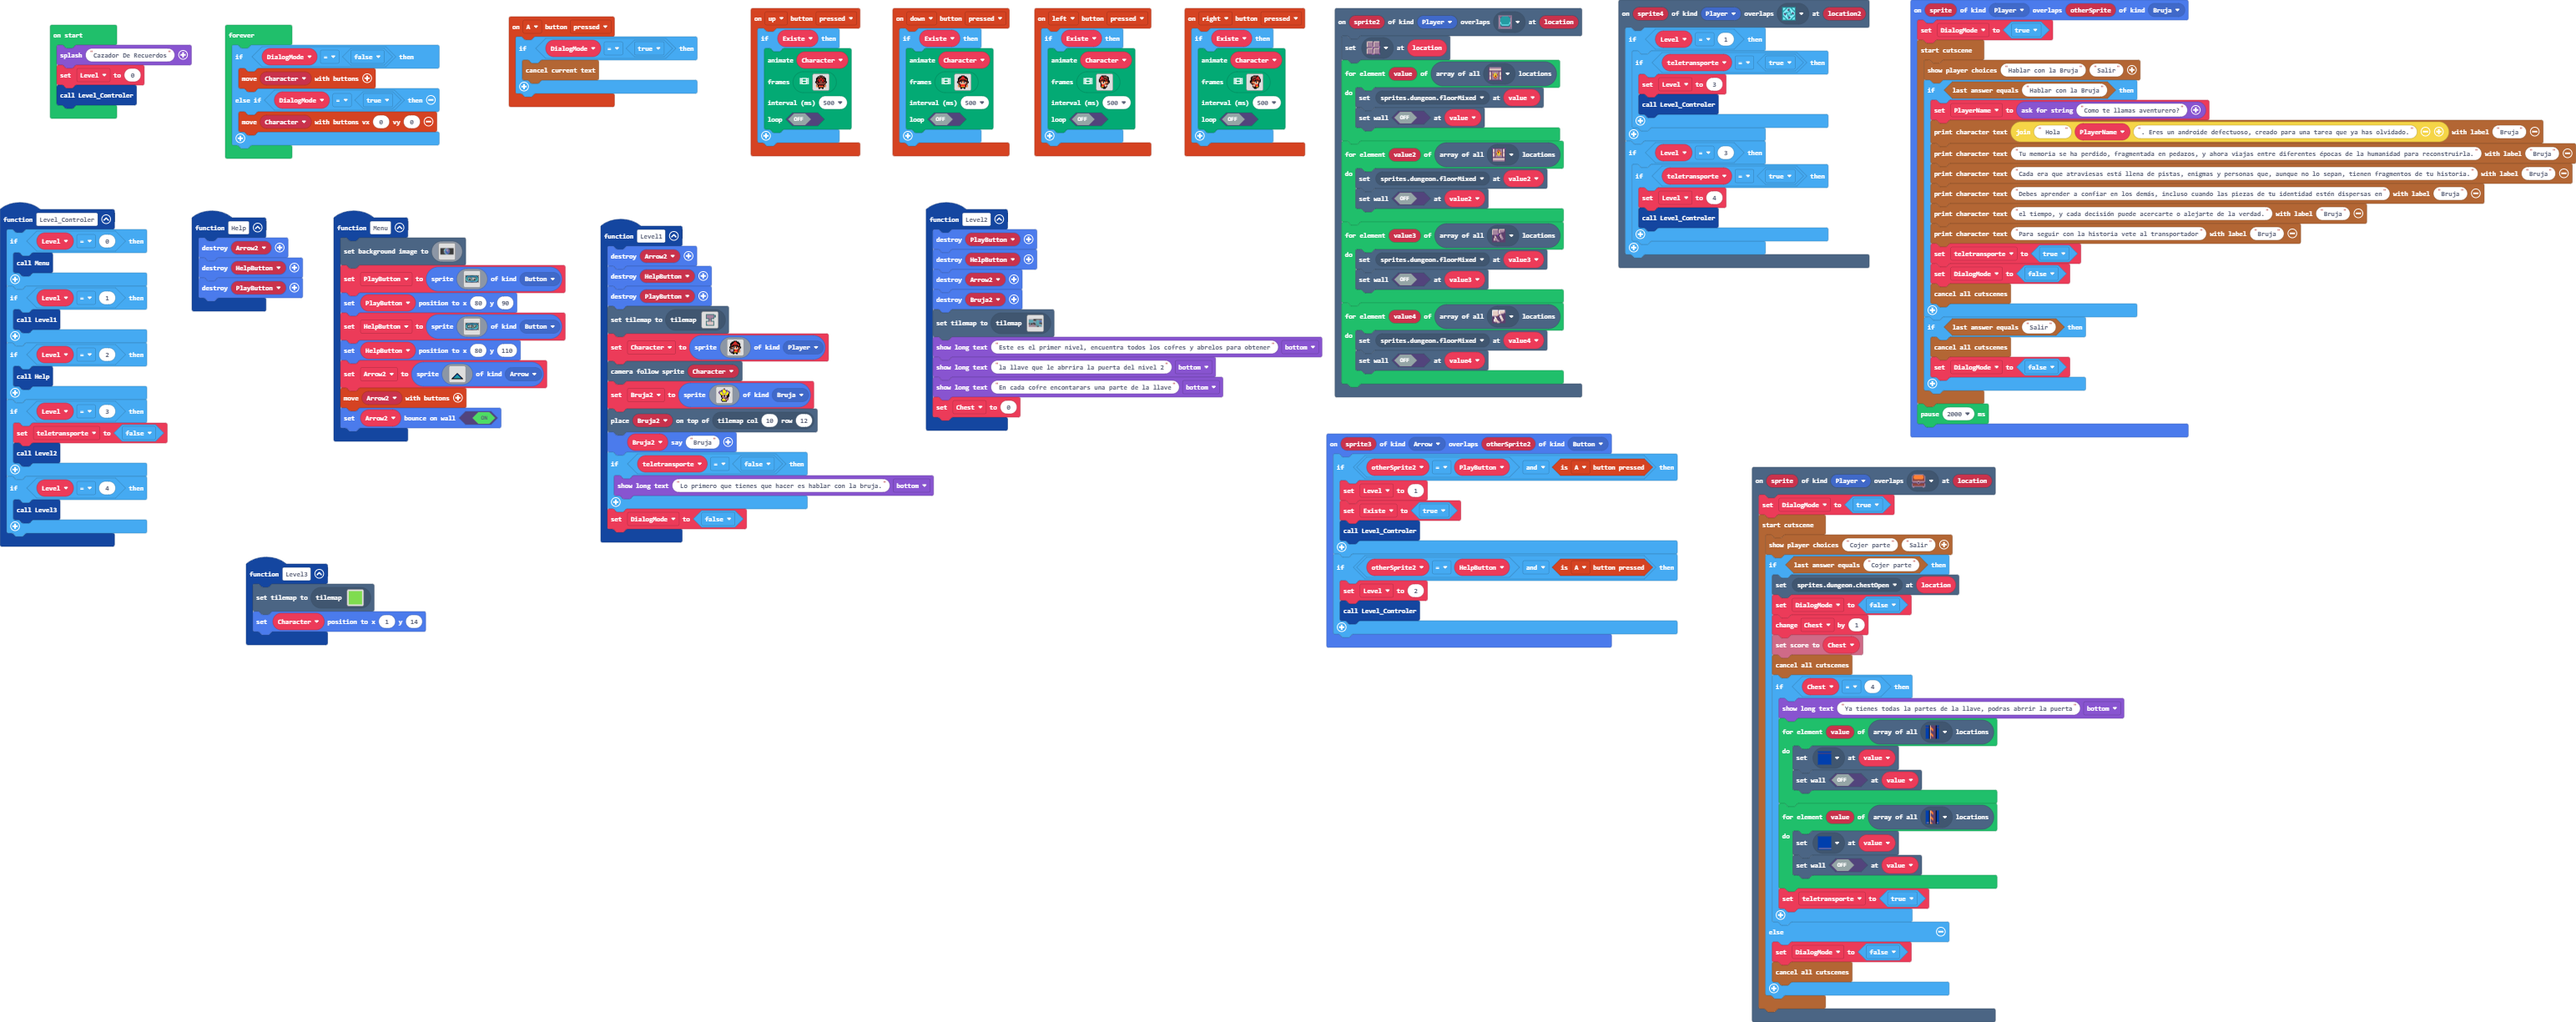
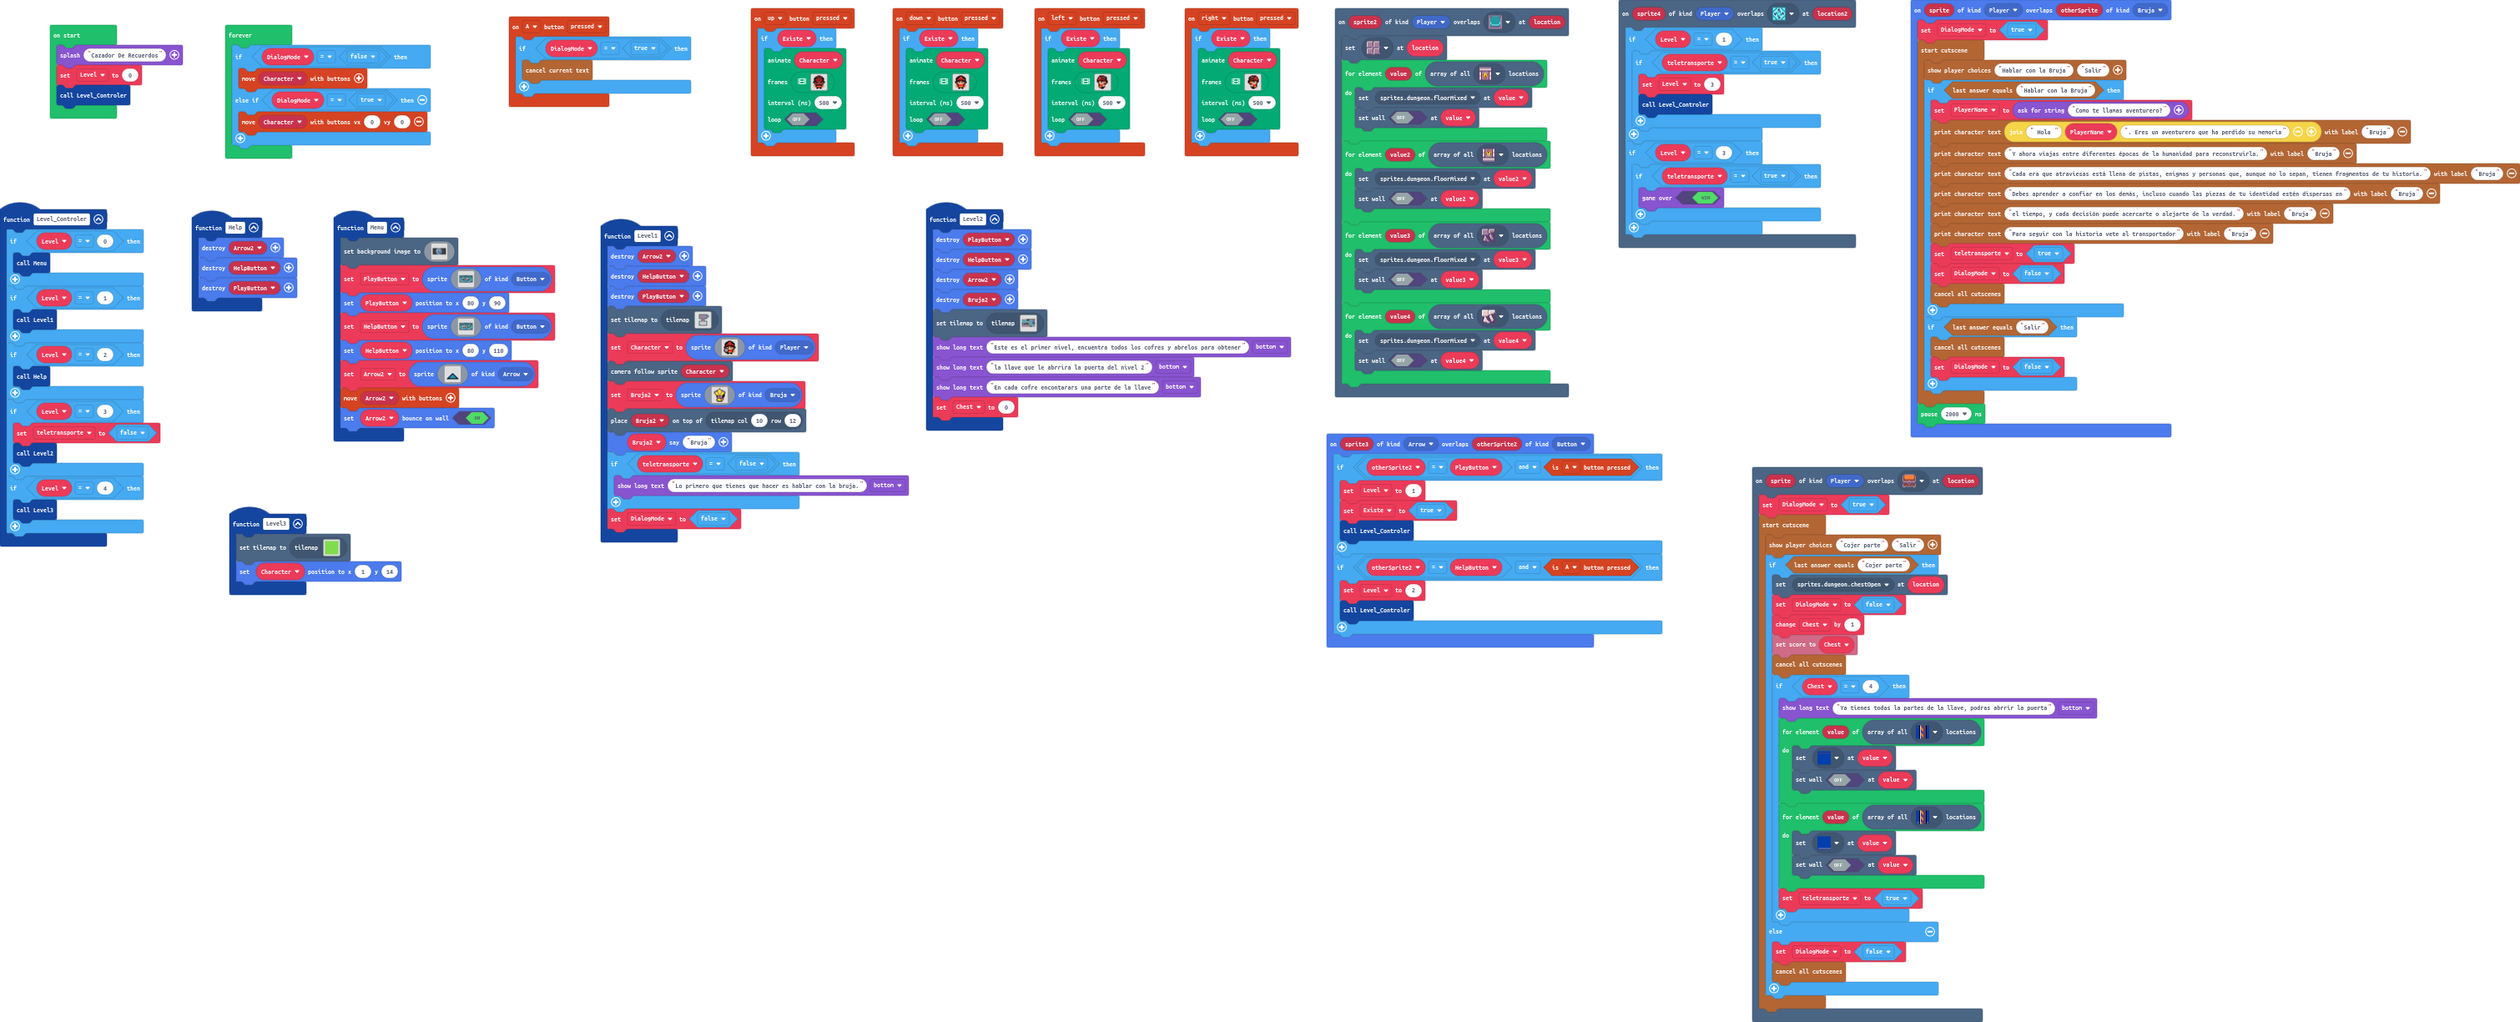
Commit

diff --git a/tilemap.g.ts b/tilemap.g.ts
@@ -331,25 +331,6 @@ namespace myTiles {
 
     helpers._registerFactory("tilemap", function(name: string) {
         switch(helpers.stringTrim(name)) {
-            case "level4":
[1 lines of base64/hex data omitted]
-2 2 2 2 2 2 2 2 2 2 2 2 2 2 2 2 
-2 2 2 2 2 2 2 2 2 2 2 2 2 2 2 2 
-2 2 2 2 . . . . . . . . 2 2 2 2 
-2 2 2 2 . . . . . . . . . . 2 2 
-2 2 2 2 . . . . . . . . 2 2 2 2 
-2 2 2 2 . . . . . . . . 2 2 2 2 
-2 2 2 2 2 2 2 2 2 2 2 2 2 2 2 2 
-2 2 2 2 2 2 2 2 2 2 2 2 2 2 2 2 
-2 2 2 2 2 2 2 2 2 2 2 2 2 2 2 2 
-2 2 2 2 2 2 2 2 2 2 2 2 2 2 2 2 
-2 2 2 2 . . . . . . . . 2 2 2 2 
-2 2 2 2 . . . . . . . . 2 2 2 2 
-2 2 2 2 . . . . . . . . 2 2 2 2 
-2 2 2 2 . . . . . . . . 2 2 2 2 
-2 2 2 2 2 2 2 2 2 2 2 2 2 2 2 2 
-2 2 2 2 2 2 2 2 2 2 2 2 2 2 2 2 
-`, [myTiles.transparency16,sprites.dungeon.greenOuterNorthEast,sprites.dungeon.greenOuterSouthEast,sprites.dungeon.greenOuterSouthWest,sprites.dungeon.greenOuterEast0,sprites.dungeon.greenOuterNorthWest,sprites.dungeon.greenOuterNorth0,sprites.dungeon.greenOuterSouth0,sprites.dungeon.greenInnerNorthWest,sprites.dungeon.greenInnerNorthEast,sprites.dungeon.greenInnerSouthWest,sprites.dungeon.greenInnerSouthEast,sprites.dungeon.greenOuterWest1,sprites.dungeon.greenOuterEast1,sprites.dungeon.floorDark0,sprites.dungeon.floorLight0,sprites.dungeon.doorLockedNorth,sprites.dungeon.doorLockedSouth,sprites.dungeon.floorDark3,sprites.dungeon.floorLight3,sprites.dungeon.collectibleInsignia,myTiles.tile1], TileScale.Sixteen);
             case "level8":
             case "level8":return tiles.createTilemap(hex`1000100001010101010101010101010101010101010101010101010101010101010101010101010101010101010101010101010101010101010101010101010101010101010101010101010101010101010101010101010101010101010101010101010101010101010101010101010101010101010101010101010101010101010101010101010101010101010101010101010101010101010101010101010101010101010101010101010101010101010101010101010101010101010101010101010101010101010101010101010101010101010101010101010101010101010101010101010101010101010101010101010101010101010101010101010101010101`, img`
 . . . . . . . . . . . . . . . . 
@@ -464,6 +445,25 @@ namespace myTiles {
 . . . . . . . . . . . . . . . . 
 . . . . . . . . . . . . . . . . 
 `, [myTiles.transparency16], TileScale.Sixteen);
+            case "level7":
+            case "level7":return tiles.createTilemap(hex`1000100000000000000000000000000000000000000000000000000000000000000000000000000000000000000000000000000000000000000000000000000000000000000000000000000000000000000000000000000000000000000000000000000000000000000000000000000000000000000000000000000000000000000000000000000000000000000000000000000000000000000000000000000000000000000000000000000000000000000000000000000000000000000000000000000000000000000000000000000000000000000000000000000000000000000000000000000000000000000000000000000000000000000000000000000000000000`, img`
+. . . . . . . . . . . . . . . . 
+. . . . . . . . . . . . . . . . 
+. . . . . . . . . . . . . . . . 
+. . . . . . . . . . . . . . . . 
+. . . . . . . . . . . . . . . . 
+. . . . . . . . . . . . . . . . 
+. . . . . . . . . . . . . . . . 
+. . . . . . . . . . . . . . . . 
+. . . . . . . . . . . . . . . . 
+. . . . . . . . . . . . . . . . 
+. . . . . . . . . . . . . . . . 
+. . . . . . . . . . . . . . . . 
+. . . . . . . . . . . . . . . . 
+. . . . . . . . . . . . . . . . 
+. . . . . . . . . . . . . . . . 
+. . . . . . . . . . . . . . . . 
+`, [myTiles.transparency16], TileScale.Sixteen);
             case "level11":
[1 lines of base64/hex data omitted]
 222222222222222222222222222222222222222222222222222222222222222222
@@ -505,25 +505,6 @@ namespace myTiles {
 222222222222222222222222222222222222....22222222222222222222222222
 222222222222222222222222222222222222222222222222222222222222222222
 `, [myTiles.transparency16,myTiles.tile2,myTiles.tile3,myTiles.tile4,myTiles.tile5,myTiles.tile6,myTiles.tile8,myTiles.tile9,myTiles.tile10,myTiles.tile11,myTiles.tile12,myTiles.tile13,myTiles.tile14,myTiles.tile15,myTiles.tile16,myTiles.tile17,myTiles.tile19,myTiles.tile20,myTiles.tile22,myTiles.tile23,myTiles.tile24,myTiles.tile25,myTiles.tile26,myTiles.tile18,myTiles.tile27,myTiles.tile28,myTiles.tile29,myTiles.tile30,myTiles.tile31,myTiles.tile32,myTiles.tile33,myTiles.tile34,myTiles.tile35,myTiles.tile36,myTiles.tile37,myTiles.tile38,myTiles.tile39,myTiles.tile40,myTiles.tile41,myTiles.tile42,myTiles.tile43,myTiles.tile44,myTiles.tile45,myTiles.tile46,myTiles.tile47,myTiles.tile49,myTiles.tile50,myTiles.tile51,myTiles.tile52,myTiles.tile53,myTiles.tile54,myTiles.tile55,myTiles.tile56,myTiles.tile58,myTiles.tile59,myTiles.tile60,myTiles.tile61,myTiles.tile62,myTiles.tile63,myTiles.tile64,myTiles.tile57,myTiles.tile65,myTiles.tile66,myTiles.tile67,myTiles.tile68,myTiles.tile69,myTiles.tile70,myTiles.tile71,myTiles.tile72,myTiles.tile73,myTiles.tile74,myTiles.tile75,myTiles.tile77,myTiles.tile76,myTiles.tile78,myTiles.tile79,myTiles.tile80,myTiles.tile81,myTiles.tile82,myTiles.tile83,myTiles.tile84,myTiles.tile85,myTiles.tile86,myTiles.tile87,myTiles.tile88,myTiles.tile89,myTiles.tile90,myTiles.tile91,myTiles.tile93,myTiles.tile94,myTiles.tile92,myTiles.tile95,myTiles.tile48,myTiles.tile96,myTiles.tile97,myTiles.tile98,myTiles.tile99,myTiles.tile100,myTiles.tile102,myTiles.tile103,myTiles.tile104,myTiles.tile105,myTiles.tile106,myTiles.tile107,myTiles.tile108,myTiles.tile111,myTiles.tile112,myTiles.tile101,myTiles.tile109,myTiles.tile113,myTiles.tile114,myTiles.tile115,myTiles.tile116,myTiles.tile117,myTiles.tile118,myTiles.tile119,myTiles.tile120,myTiles.tile121,myTiles.tile122,myTiles.tile123,myTiles.tile124,myTiles.tile125,myTiles.tile126,myTiles.tile127,myTiles.tile128,myTiles.tile129,myTiles.tile130,myTiles.tile132,myTiles.tile133,myTiles.tile134,myTiles.tile135,myTiles.tile136,myTiles.tile137,myTiles.tile139,myTiles.tile140,myTiles.tile143,myTiles.tile144,myTiles.tile145,myTiles.tile146,myTiles.tile147,myTiles.tile148,myTiles.tile149,myTiles.tile150,myTiles.tile151,myTiles.tile152,myTiles.tile153,myTiles.tile154,sprites.dungeon.chestClosed,sprites.dungeon.collectibleInsignia], TileScale.Sixteen);
-            case "level7":
-            case "level7":return tiles.createTilemap(hex`1000100000000000000000000000000000000000000000000000000000000000000000000000000000000000000000000000000000000000000000000000000000000000000000000000000000000000000000000000000000000000000000000000000000000000000000000000000000000000000000000000000000000000000000000000000000000000000000000000000000000000000000000000000000000000000000000000000000000000000000000000000000000000000000000000000000000000000000000000000000000000000000000000000000000000000000000000000000000000000000000000000000000000000000000000000000000000`, img`
-. . . . . . . . . . . . . . . . 
-. . . . . . . . . . . . . . . . 
-. . . . . . . . . . . . . . . . 
-. . . . . . . . . . . . . . . . 
-. . . . . . . . . . . . . . . . 
-. . . . . . . . . . . . . . . . 
-. . . . . . . . . . . . . . . . 
-. . . . . . . . . . . . . . . . 
-. . . . . . . . . . . . . . . . 
-. . . . . . . . . . . . . . . . 
-. . . . . . . . . . . . . . . . 
-. . . . . . . . . . . . . . . . 
-. . . . . . . . . . . . . . . . 
-. . . . . . . . . . . . . . . . 
-. . . . . . . . . . . . . . . . 
-. . . . . . . . . . . . . . . . 
-`, [myTiles.transparency16], TileScale.Sixteen);
             case "level9":
             case "level9":return tiles.createTilemap(hex`1000100001010101010101010101010101010101010101010101010101010101010101010101010101010101010101010101010101010101010101010101010101010101010101010101010101010101010101010101010101010101010101010101010101010101010101010101010101010101010101010101010101010101010101010101010101010101010101010101010101010101010101010101010101010101010101010101010101010101010101010101010101010101010101010101010101010101010101010101010101010101010101010101010101010101010101010101010101010101010101010101010101010101010101010101010101010101`, img`
 . . . . . . . . . . . . . . . . 
@@ -543,6 +524,25 @@ namespace myTiles {
 . . . . . . . . . . . . . . . . 
 . . . . . . . . . . . . . . . . 
 `, [myTiles.transparency16,sprites.castle.tileGrass1], TileScale.Sixteen);
+            case "level4":
[1 lines of base64/hex data omitted]
+2 2 2 2 2 2 2 2 2 2 2 2 2 2 2 2 
+2 2 2 2 2 2 2 2 2 2 2 2 2 2 2 2 
+2 2 2 2 . . . . . . . . 2 2 2 2 
+2 2 2 2 . . . . . . . . . . 2 2 
+2 2 2 2 . . . . . . . . 2 2 2 2 
+2 2 2 2 . . . . . . . . 2 2 2 2 
+2 2 2 2 2 2 2 2 2 2 2 2 2 2 2 2 
+2 2 2 2 2 2 2 2 2 2 2 2 2 2 2 2 
+2 2 2 2 2 2 2 2 2 2 2 2 2 2 2 2 
+2 2 2 2 2 2 2 2 2 2 2 2 2 2 2 2 
+2 2 2 2 . . . . . . . . 2 2 2 2 
+2 2 2 2 . . . . . . . . 2 2 2 2 
+2 2 2 2 . . . . . . . . 2 2 2 2 
+2 2 2 2 . . . . . . . . 2 2 2 2 
+2 2 2 2 2 2 2 2 2 2 2 2 2 2 2 2 
+2 2 2 2 2 2 2 2 2 2 2 2 2 2 2 2 
+`, [myTiles.transparency16,sprites.dungeon.greenOuterNorthEast,sprites.dungeon.greenOuterSouthEast,sprites.dungeon.greenOuterSouthWest,sprites.dungeon.greenOuterEast0,sprites.dungeon.greenOuterNorthWest,sprites.dungeon.greenOuterNorth0,sprites.dungeon.greenOuterSouth0,sprites.dungeon.greenInnerNorthWest,sprites.dungeon.greenInnerNorthEast,sprites.dungeon.greenInnerSouthWest,sprites.dungeon.greenInnerSouthEast,sprites.dungeon.greenOuterWest1,sprites.dungeon.greenOuterEast1,sprites.dungeon.floorDark0,sprites.dungeon.floorLight0,sprites.dungeon.doorLockedNorth,sprites.dungeon.doorLockedSouth,sprites.dungeon.floorDark3,sprites.dungeon.floorLight3,sprites.dungeon.collectibleInsignia,myTiles.tile1], TileScale.Sixteen);
         }
         return null;
     })

diff --git a/main.ts b/main.ts
@@ -9,8 +9,8 @@ sprites.onOverlap(SpriteKind.Player, SpriteKind.Bruja, function (sprite, otherSp
         story.showPlayerChoices("Hablar con la Bruja", "Salir")
         if (story.checkLastAnswer("Hablar con la Bruja")) {
             PlayerName = game.askForString("Como te llamas aventurero?")
-            story.printCharacterText(" Hola " + PlayerName + ". Eres un androide defectuoso, creado para una tarea que ya has olvidado.", "Bruja")
-            story.printCharacterText("Tu memoria se ha perdido, fragmentada en pedazos, y ahora viajas entre diferentes épocas de la humanidad para reconstruirla.", "Bruja")
+            story.printCharacterText(" Hola " + PlayerName + ". Eres un aventurero que ha perdido su memoria", "Bruja")
+            story.printCharacterText("Y ahora viajas entre diferentes épocas de la humanidad para reconstruirla.", "Bruja")
             story.printCharacterText("Cada era que atraviesas está llena de pistas, enigmas y personas que, aunque no lo sepan, tienen fragmentos de tu historia.", "Bruja")
             story.printCharacterText("Debes aprender a confiar en los demás, incluso cuando las piezas de tu identidad estén dispersas en", "Bruja")
             story.printCharacterText("el tiempo, y cada decisión puede acercarte o alejarte de la verdad.", "Bruja")
@@ -289,8 +289,7 @@ scene.onOverlapTile(SpriteKind.Player, sprites.dungeon.collectibleInsignia, func
     }
     if (Level == 3) {
         if (teletransporte == true) {
-            Level = 4
-            Level_Controler()
+            game.gameOver(true)
         }
     }
 })
